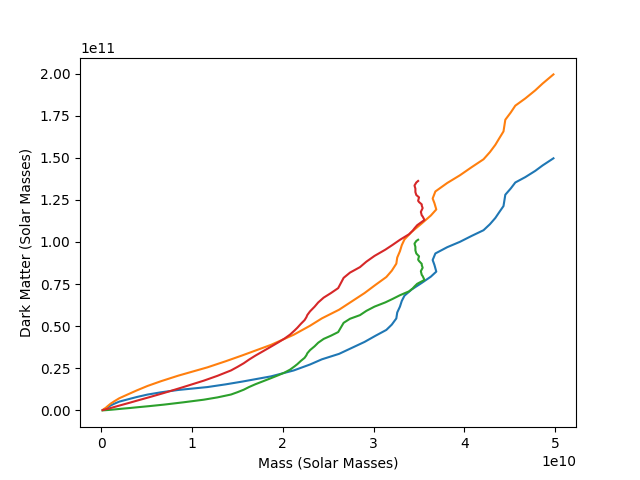
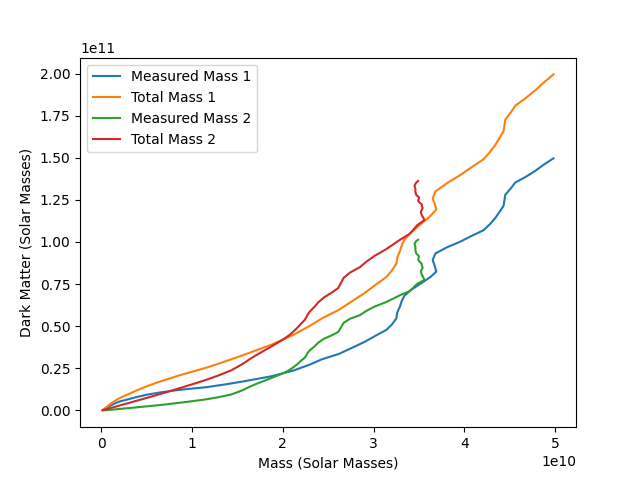
newer graphs

Changed region(s): [[0.125, 0.125, 0.4062, 0.3125]]

diff --git a/main7.py b/main7.py
@@ -39,8 +39,8 @@ x=np.array(Mass)
 z=np.array(MassDM)
 y=np.array(predictV)
 x2=np.array(Mass2)
-y2=np.array(MassDM2)
-z2=np.array(predictV2)
+z2=np.array(MassDM2)
+y2=np.array(predictV2)
 plt.plot(x,y, label="Measured Mass 1")
 plt.plot(z,y, label="Dark Matter 1")
 plt.plot(x2,y2, label="Measured Mass 2")
